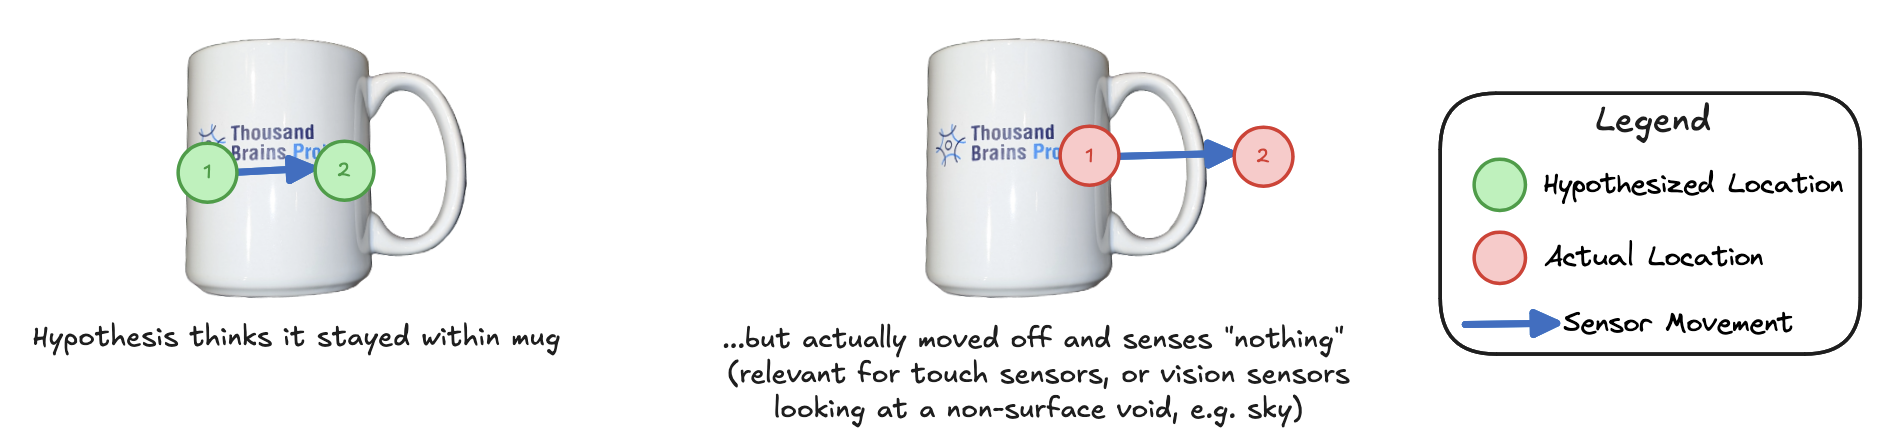
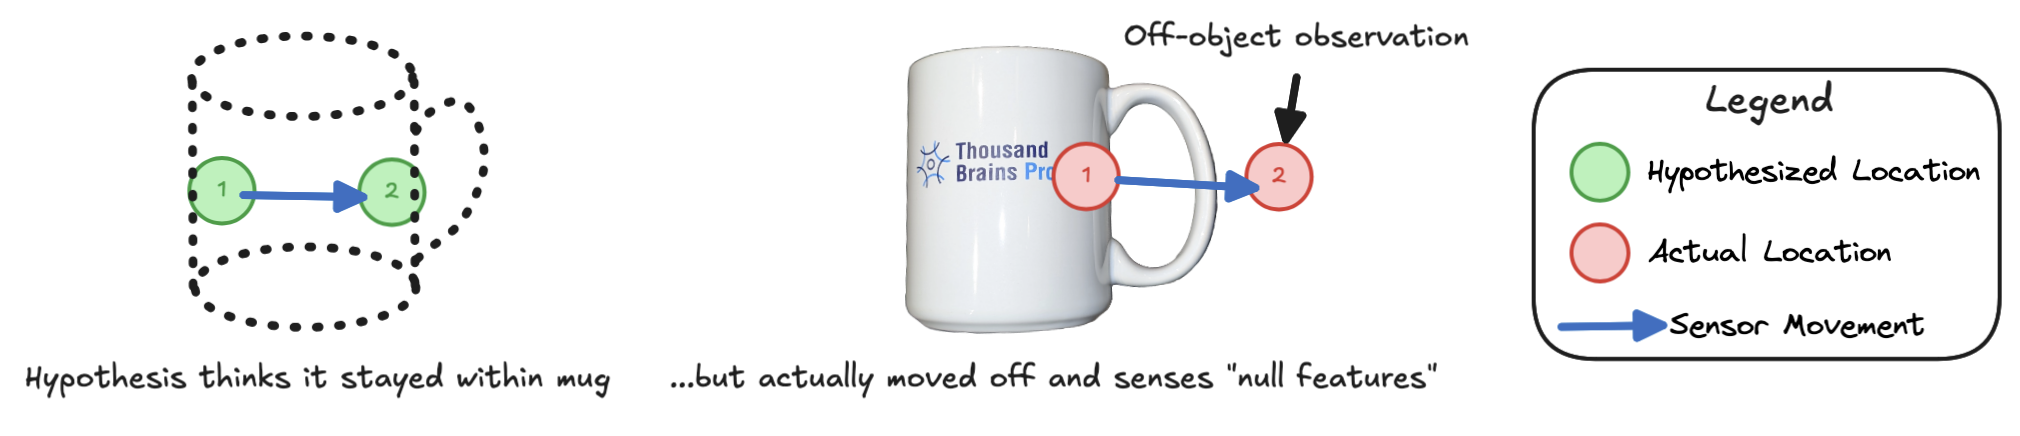
Address Viviane's comments

diff --git a/docs/future-work/learning-module-improvements/use-out-of-model-movements.md b/docs/future-work/learning-module-improvements/use-out-of-model-movements.md
@@ -16,7 +16,7 @@ Consider the situation described under using off-object observations. What if a 
 
 <img src="../../figures/future-work/out_of_model_movement.png" alt="Example of a sensor movement resulting in the hypothesis moving out of the learned model an object" width="500">
 
-*Example of a sensor movement resulting in the hypothesis moving out of the learned model of an object.*
+*Example of a sensor movement resulting in the hypothesis moving out of the learned model of an object. Note a hypothesis need not be correct to become out-of-model; a hypothesis simply needs to move far away from any learned model points.*
 
 > [!NOTE]
 > In the past we have sometimes referred to this as an "out of reference frame" movement. However, it is most accurate to describe the reference frame as the unbounded representational space where a model is learned. As such, describing it as an out-of-model-movement (OOMM) is more accurate.
@@ -25,7 +25,11 @@ We believe the best approach is that the LM would retain the OOMM hypothesis for
 
 If a hypothesis stays outside of the model space for too long however, then the hypothesis should receive strong negative evidence. In the resampling version of Monty, this would effectively be handled by the evidence slope being sufficiently small that the hypothesis is deleted.
 
-This approach ensures that a Learning Module is not expected to maintain a long-term memory of objects it is not currently on. At the same time, it means that we can move out of a model, which can be a useful way to test other hypotheses (i.e. for objects where we do expect to find something there). By then moving back onto the object and continuing to accumulate evidence, certain hypotheses can continue to grow. See the description of the 7 vs 1 and i vs ı under [Use Off Object Observations](./use-off-object-observations.md) for a concrete example of where this is relevant.
+This approach ensures that a Learning Module is not expected to maintain a long-term memory of objects it is not currently on. At the same time, it means that we can move out of a model, which can be a useful way to test other hypotheses (i.e. for objects where we do expect to find something there). By then moving back onto the object and continuing to accumulate evidence, certain hypotheses can continue to grow.
+
+## Evaluations
+-  See the description of the 7 vs 1 and i vs ı under [Use Off Object Observations](./use-off-object-observations.md) for a concrete example of where the above described situation is relevant for classification.
+- It is recommended to develop experiments that specifically evaluate the use of out-of-model movements to help resolve this classification issue in tandem with off-object observations. 
 
 ## Other details
 - If a most-likely-hypothesis moves out of a model and becomes "clamped" at that evidence value as a result, it should not continue to pass information up in a hierarchy of LMs. Intuitively, if we believe we are on a mug at location x, and then move to location y which is off of the mug, then we should not communicate to the next LM in the hierarchy that there is a mug at location y.
